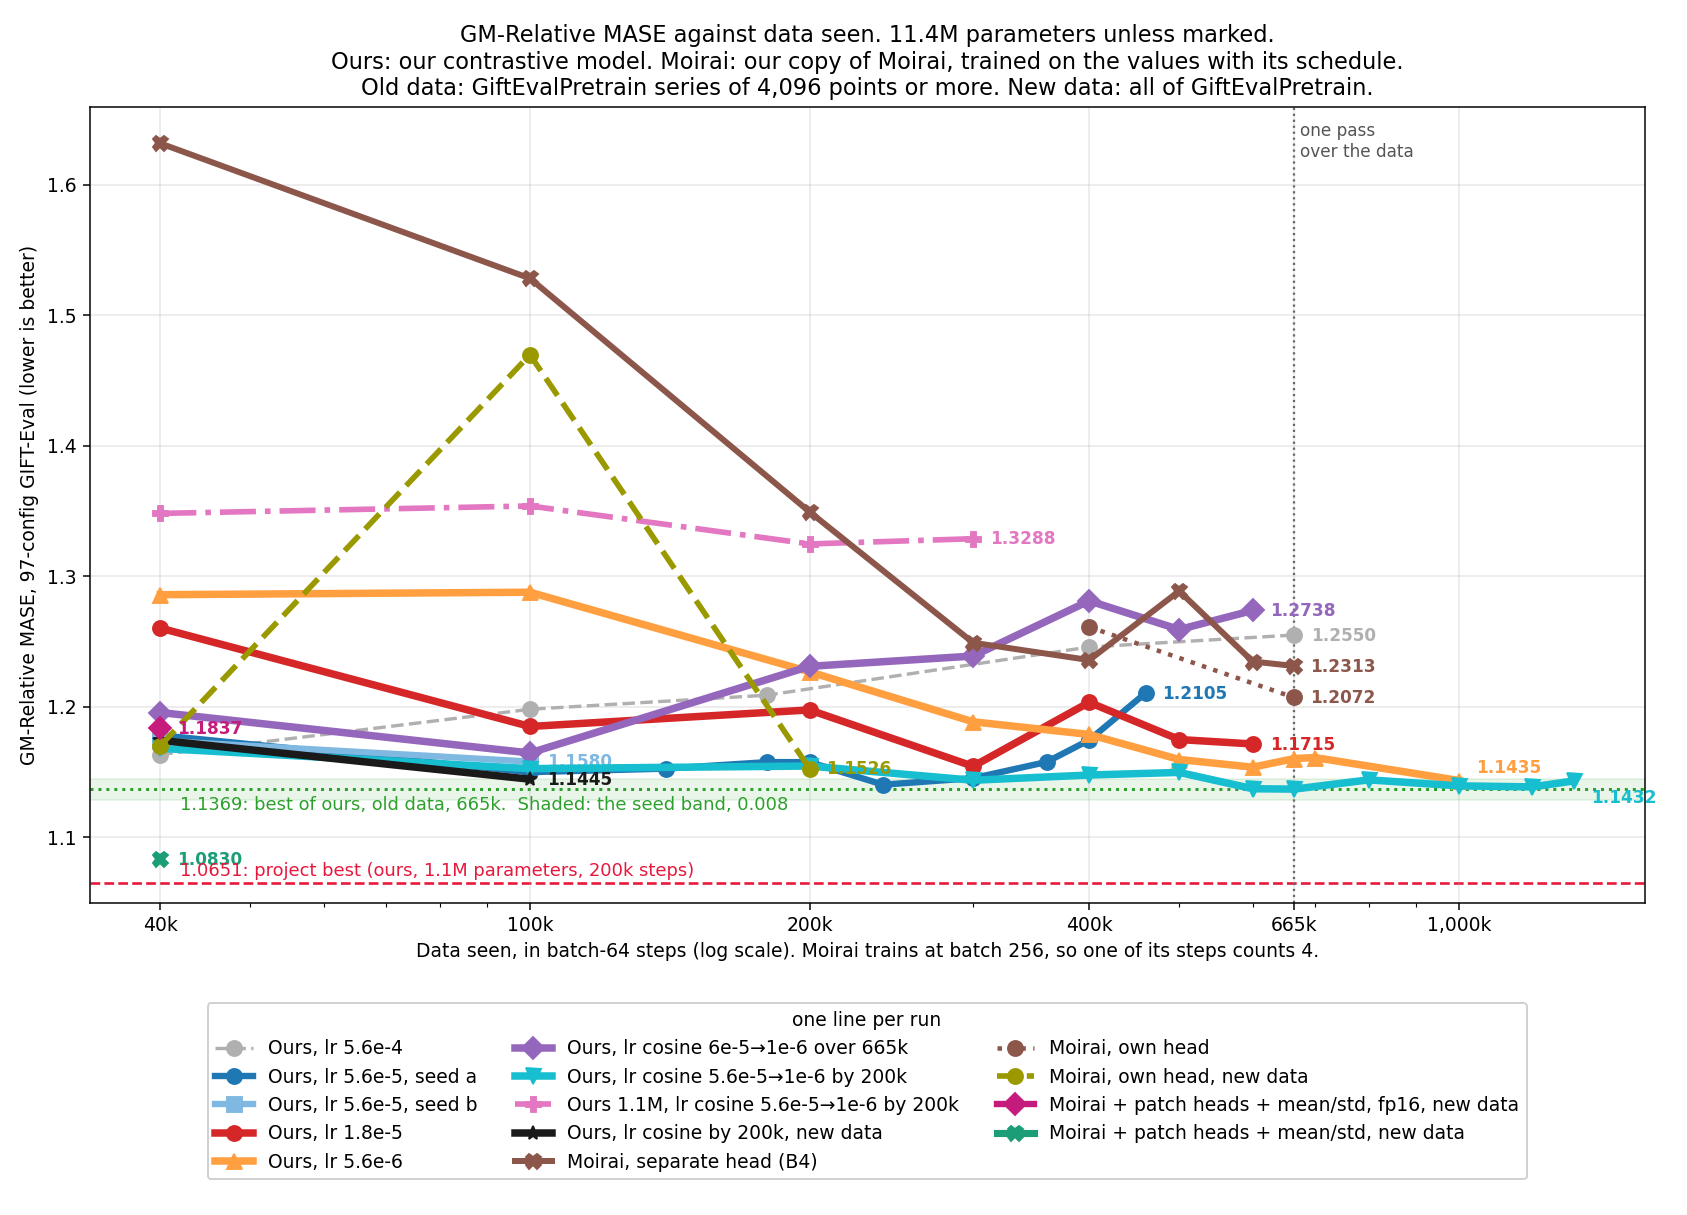
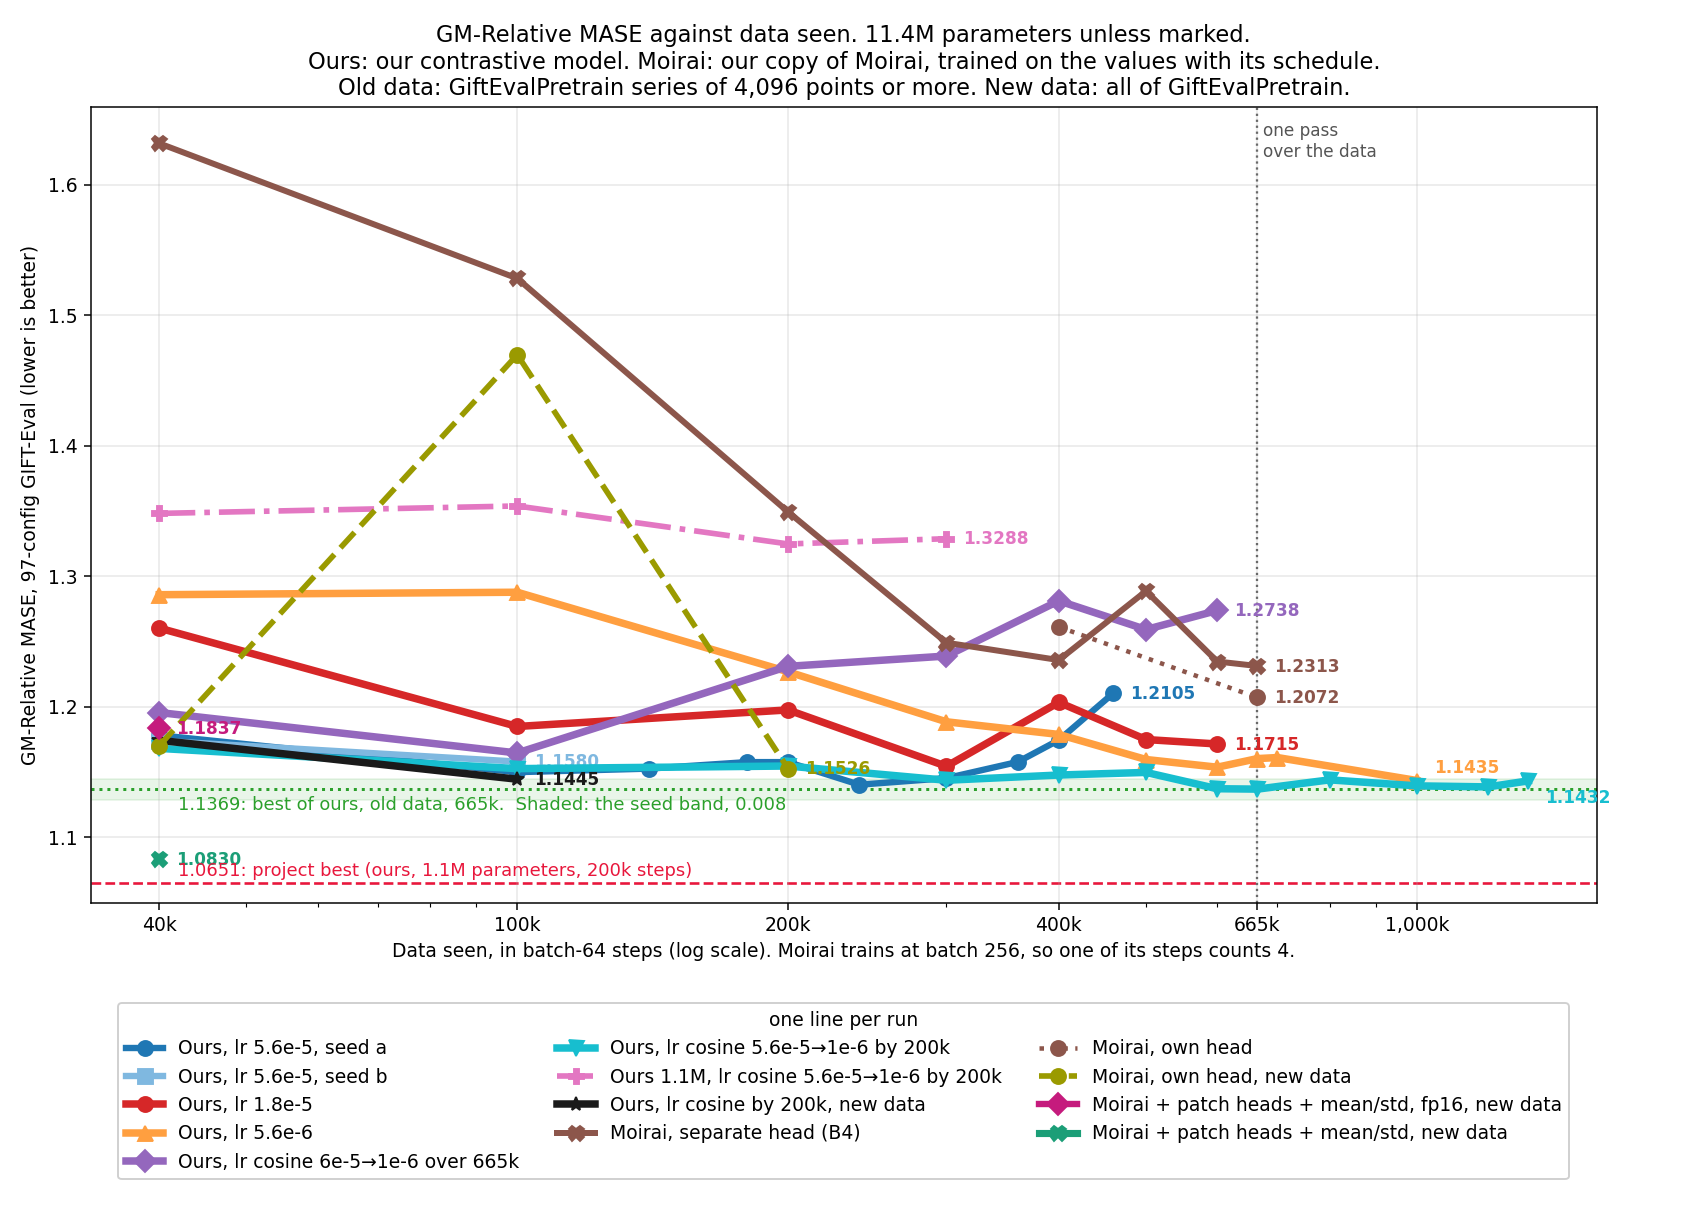
exp(#412): the curves leave out the lr 5.6e-4 run
The owner took it off the figure. Its scores stay in
results/gm_trajectories.tsv and in the report table. None of its
checkpoints remain on the box or on elisa.

diff --git a/reports/2026-09-06_moirai_small_size/scripts/plot_gm_rates.py b/reports/2026-09-06_moirai_small_size/scripts/plot_gm_rates.py
@@ -16,8 +16,8 @@ OUT = STUDY / "plots" / "gm_mase_rates.png"
 P = "k3_r100_09_lr56_fix09_dec10k"
 # arm, label, colour, line width, marker, line style
 SERIES = [
-    # Ours: our contrastive model.
-    (P,               "Ours, lr 5.6e-4",                         "#b0b0b0", 1.8, "o", "--"),
+    # Ours: our contrastive model. The lr 5.6e-4 run (arm P) keeps its scores in
+    # results/gm_trajectories.tsv; the owner took it off this figure.
     (P + "_lr10x",    "Ours, lr 5.6e-5, seed a",                 "#1f77b4", 3.4, "o", "-"),
     (P + "_lr10xb",   "Ours, lr 5.6e-5, seed b",                 "#7fb8e0", 3.4, "s", "-"),
     (P + "_lr30x",    "Ours, lr 1.8e-5",                         "#d62728", 4.0, "o", "-"),

diff --git a/reports/2026-09-06_moirai_small_size/moirai_small_size.md b/reports/2026-09-06_moirai_small_size/moirai_small_size.md
@@ -32,8 +32,8 @@ after one pass: 1.2072 with its own value head, against 1.1369.
 ![GM-Relative MASE against data seen, one line per run](plots/gm_mase_rates.png)
 
 Each constant rate falls to a lowest score and then climbs. The smaller the
-rate, the later the turn: 40,000 steps at 5.6e-4, 240,000 at 5.6e-5 and
-300,000 at 1.8e-5. At 5.6e-6 the score still falls at 1,000,000 steps.
+rate, the later the turn: 40,000 steps at 5.6e-4 (the table below lists this
+run), 240,000 at 5.6e-5 and 300,000 at 1.8e-5. At 5.6e-6 the score still falls at 1,000,000 steps.
 
 The cosine anneal to 1e-6 by step 200,000 has no turn in one pass. Its lowest
 score, 1.1369, is its 665,000-step score. A second pass at 1e-6 stays inside
